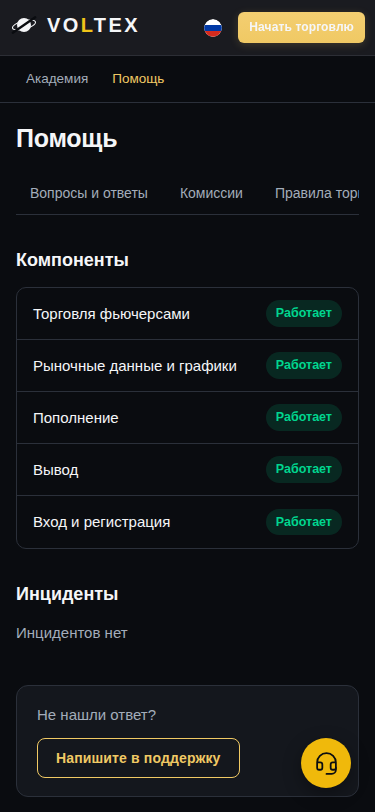
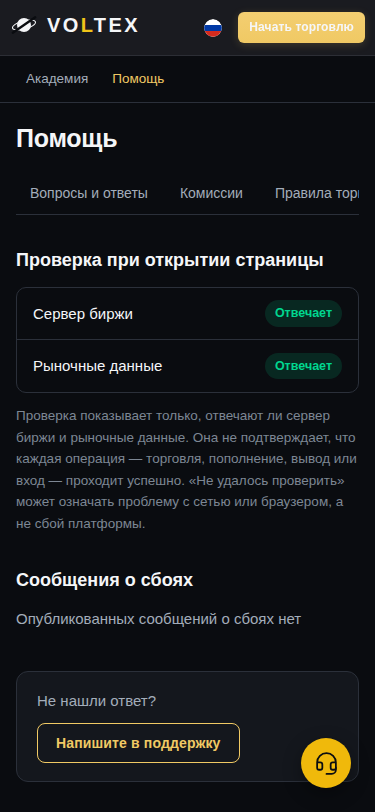
Help: registration and status say only what the site does
Review on PR #370. Registration returns a signed-in session at once
(src/api/routes/auth.ts leaves emailVerifiedAt null), so the FAQ no
longer sends people to an email link; a content test fails on that claim.

«Статус системы» now names what its two on-open checks prove: whether the
exchange server and market data answered (200 «Отвечает», another status
«Ответил с ошибкой», no answer «Не удалось проверить», which may be the
network), with a note that this does not confirm trading, deposits,
withdrawals or sign-in. No per-operation badges; an empty incident file
reads «Опубликованных сообщений о сбоях нет». Still blank while pending,
two checks, no timer.

Claude-Session: https://claude.ai/code/session_01QYDaBPmAQT7kqxtv32nEHZ

diff --git a/frontend/src/pages/knowledge/HelpPage.tsx b/frontend/src/pages/knowledge/HelpPage.tsx
@@ -7,7 +7,7 @@ import { localeOf, useLanguage } from '../../lib/i18n';
 import { MARKET_EDGE_BASE } from '../../lib/marketEdge';
 import { openSupportWidget } from '../../lib/supportWidget';
 import { faqGroups, pickLang } from '../../lib/content/academy';
-import { API_COMPONENTS, MARKET_COMPONENTS, apiHealthUrl, edgeHealthUrl, probe, type ProbeResult } from '../../lib/content/systemStatus';
+import { PROBES, apiHealthUrl, edgeHealthUrl, probe, type ProbeId, type ProbeResult } from '../../lib/content/systemStatus';
 import type { FeeRow, HelpContent } from '../../lib/content/types';
 import { usePageMeta } from '../../lib/content/usePageMeta';
 import { KnowledgeShell } from './KnowledgeShell';
@@ -193,36 +193,35 @@ function Rules({ content }: { content: HelpContent }) {
 
 function Status({ content }: { content: HelpContent }) {
   const { t } = useLanguage();
-  usePageMeta(`${t('help.tab.status')} — ${TITLE}`, 'Работают ли торговля, рыночные данные, пополнение, вывод и вход на VOLTEX.');
-  const [api, setApi] = useState<ProbeResult | null>(null);
-  const [market, setMarket] = useState<ProbeResult | null>(null);
+  usePageMeta(`${t('help.tab.status')} — ${TITLE}`, 'Отвечают ли сервер VOLTEX и рыночные данные; опубликованные сообщения о сбоях.');
+  const [results, setResults] = useState<Partial<Record<ProbeId, ProbeResult>>>({});
   useEffect(() => {
     // One check each, only now that the page is open; never repeated on a timer.
     const controller = new AbortController();
-    void probe(apiHealthUrl(API_BASE, window.location.origin), browserFetch, controller.signal).then(setApi, () => {});
-    void probe(edgeHealthUrl(MARKET_EDGE_BASE), browserFetch, controller.signal).then(setMarket, () => {});
+    const urls: Record<ProbeId, string> = { api: apiHealthUrl(API_BASE, window.location.origin), market: edgeHealthUrl(MARKET_EDGE_BASE) };
+    for (const id of PROBES) {
+      void probe(urls[id], browserFetch, controller.signal).then((result) => setResults((prev) => ({ ...prev, [id]: result })), () => {});
+    }
     return () => controller.abort();
   }, []);
-  const resultOf = (id: string) => (API_COMPONENTS.includes(id) ? api : MARKET_COMPONENTS.includes(id) ? market : null);
+  const label: Record<ProbeResult, string> = { ok: t('help.status.ok'), error: t('help.status.error'), unreachable: t('help.status.unreachable') };
+  const names = new Map(content.components.map((c) => [c.id, c.name]));
   return (
     <>
       <section className="vx-kb-block">
-        <h2 className="vx-kb-h2">{t('help.status.components')}</h2>
+        <h2 className="vx-kb-h2">{t('help.status.checks')}</h2>
         <ul className="vx-kb-status">
-          {content.components.map((c) => {
-            const result = resultOf(c.id);
+          {PROBES.map((id) => {
+            const result = results[id];
             return (
-              <li key={c.id} data-status-component={c.id}>
-                <span>{c.name}</span>
-                {result && (
-                  <span className={`vx-kb-pill is-${result}`} data-status={result}>
-                    {result === 'ok' ? t('help.status.ok') : t('help.status.problem')}
-                  </span>
-                )}
+              <li key={id} data-status-probe={id}>
+                <span>{t(`help.status.${id}`)}</span>
+                {result && <span className={`vx-kb-pill is-${result}`} data-status={result}>{label[result]}</span>}
               </li>
             );
           })}
         </ul>
+        <p className="vx-kb-text vx-kb-status-note">{t('help.status.note')}</p>
       </section>
       <section className="vx-kb-block">
         <h2 className="vx-kb-h2">{t('help.status.incidents')}</h2>
@@ -232,7 +231,7 @@ function Status({ content }: { content: HelpContent }) {
           <ul className="vx-kb-incidents">
             {content.incidents.map((incident, i) => (
               <li key={`${incident.date ?? ''}-${i}`}>
-                <p className="vx-kb-meta">{[incident.date, incident.status].filter(Boolean).join(' · ')}</p>
+                <p className="vx-kb-meta">{[incident.date, incident.status, ...(incident.components ?? []).map((id) => names.get(id) ?? id)].filter(Boolean).join(' · ')}</p>
                 {incident.title && <p className="vx-kb-card-title">{incident.title}</p>}
                 {incident.text && <p className="vx-kb-text">{incident.text}</p>}
               </li>

diff --git a/frontend/src/lib/__tests__/academyHelpPages.test.ts b/frontend/src/lib/__tests__/academyHelpPages.test.ts
@@ -182,23 +182,36 @@ test('fees page: zero fees, the owner note stays hidden', async () => {
   expect(text()).not.toContain('_note');
 });
 
-test('status: one check each on open, nothing shown while waiting, then the answers; no timer', async () => {
+test('status: one check each on open, nothing shown while waiting, then only what the checks prove; no timer', async () => {
   jest.useFakeTimers({ doNotFake: ['setImmediate'] });
   const pending: Record<string, (value: any) => void> = {};
   answer = (url) => new Promise((done) => { pending[url] = done; });
   await open('/help/status');
   expect(requests.sort()).toEqual(['https://api.voltextech.net/health', 'https://market.voltextech.net/health']);
+  expect(Array.from(host.querySelectorAll('[data-status-probe]')).map((el) => el.getAttribute('data-status-probe'))).toEqual(['api', 'market']);
   expect(host.querySelectorAll('[data-status]').length).toBe(0);
-  expect(text()).not.toMatch(/Провер|Ожида|Нет ответа/);
+  expect(text()).not.toMatch(/Ожида|Нет ответа|Проверяем/);
   await act(async () => { jest.advanceTimersByTime(60_000); await flush(); });
   expect(host.querySelectorAll('[data-status]').length).toBe(0);
   await act(async () => { pending['https://api.voltextech.net/health']({ status: 200 }); pending['https://market.voltextech.net/health']({ status: 502 }); await flush(); await flush(); });
-  const state = (id: string) => host.querySelector(`[data-status-component="${id}"] [data-status]`)?.textContent;
-  expect(['trading', 'deposits', 'withdrawals', 'auth'].map(state)).toEqual(['Работает', 'Работает', 'Работает', 'Работает']);
-  expect(state('market-data')).toBe('Проблемы');
-  expect(host.querySelector('[data-no-incidents]')!.textContent).toBe('Инцидентов нет');
+  const state = (id: string) => host.querySelector(`[data-status-probe="${id}"] [data-status]`)?.textContent;
+  expect([state('api'), state('market')]).toEqual(['Отвечает', 'Ответил с ошибкой']);
+  // One 200 from /health is not shown as working trading, deposits, withdrawals or sign-in.
+  expect(host.querySelectorAll('[data-status-component]').length).toBe(0);
+  expect(text()).not.toMatch(/Работает|Торговля фьючерсами|Вывод.*Отвечает/);
+  expect(text()).toContain('Она не подтверждает, что каждая операция');
+  expect(host.querySelector('[data-no-incidents]')!.textContent).toBe('Опубликованных сообщений о сбоях нет');
   await act(async () => { jest.advanceTimersByTime(60 * 60_000); await flush(); });
   expect(requests).toHaveLength(2);
+});
+
+test('status: a request the browser could not complete reads «Не удалось проверить», not an outage', async () => {
+  answer = (url) => (url.includes('api.') ? Promise.reject(new TypeError('Failed to fetch')) : Promise.resolve({ status: 200 }));
+  await open('/help/status');
+  await act(async () => { await flush(); await flush(); });
+  const state = (id: string) => host.querySelector(`[data-status-probe="${id}"] [data-status]`)?.textContent;
+  expect([state('api'), state('market')]).toEqual(['Не удалось проверить', 'Отвечает']);
+  expect(text()).not.toMatch(/Проблемы|сбой платформы подтвержд/);
 });
 
 test('English: labels translate, the Russian text stays with a short note', async () => {

diff --git a/frontend/src/lib/__tests__/academyHelpContent.test.ts b/frontend/src/lib/__tests__/academyHelpContent.test.ts
@@ -119,12 +119,28 @@ test('search, level filter, neighbours and FAQ groups', () => {
   expect(pickLang(compiled.academy, 'ru')).toEqual({ content: academy, fallback: false });
 });
 
-test('status: /health at the API host root and on the market Worker; a non-200 or an error is «problem»', async () => {
+test('status: /health at the API host root and on the market Worker; 200 answers, another status is an error, no answer is unknown', async () => {
   expect(apiHealthUrl('https://api.voltextech.net/api/v1', 'https://voltextech.net')).toBe('https://api.voltextech.net/health');
   expect(apiHealthUrl('/api/v1', 'https://voltextech.net')).toBe('https://voltextech.net/health');
   expect(edgeHealthUrl('https://market.voltextech.net/')).toBe('https://market.voltextech.net/health');
   const signal = new AbortController().signal;
   expect(await probe('u', (async () => ({ status: 200 })) as unknown as typeof fetch, signal)).toBe('ok');
-  expect(await probe('u', (async () => ({ status: 503 })) as unknown as typeof fetch, signal)).toBe('problem');
-  expect(await probe('u', (async () => { throw new TypeError('offline'); }) as unknown as typeof fetch, signal)).toBe('problem');
+  expect(await probe('u', (async () => ({ status: 503 })) as unknown as typeof fetch, signal)).toBe('error');
+  // A browser that got no answer (network, blocker, CORS) has proven nothing about the platform.
+  expect(await probe('u', (async () => { throw new TypeError('offline'); }) as unknown as typeof fetch, signal)).toBe('unreachable');
+});
+
+test('registration: no content promises an email-confirmation step the site does not have', () => {
+  // src/api/routes/auth.ts: registration returns a signed-in session at once;
+  // `emailVerifiedAt` stays null and nothing waits for a link.
+  const claim = /подтверд\S*\s+(?:свою\s+)?почт|ссылк\S*\s+из\s+письм|письм\S*\s+с\s+подтвержд(?!ением ждать не нужно)/i;
+  const offenders = Object.entries(files).filter(([, text]) => claim.test(text)).map(([path]) => path);
+  expect(offenders).toEqual([]);
+  const register = help.faq.find((item) => item.q === 'Как зарегистрироваться?')!;
+  expect(register.a).toContain('Аккаунт откроется сразу');
+});
+
+test('incident list: an empty file means no published reports, and editor notes stay off the page', () => {
+  expect(help.incidents).toEqual([]);
+  expect(JSON.stringify(help)).not.toContain('Сообщения о сбоях ведутся вручную');
 });

diff --git a/frontend/src/lib/content/systemStatus.ts b/frontend/src/lib/content/systemStatus.ts
@@ -1,17 +1,22 @@
 /**
  * «Статус системы»: one light check per service, made only when the page is
- * opened — never on a timer. The API answer covers trading, deposits,
- * withdrawals and sign-in; the public market Worker covers market data.
+ * opened — never on a timer. Each check proves exactly one thing: whether
+ * that endpoint answered. The API `/health` is a liveness answer; it does
+ * not prove that trading, deposits, withdrawals or sign-in succeed, so the
+ * page reports the API and the market-data Worker, not those operations.
  *
  * While an answer is on its way nothing is shown (owner, 2026-10-01): a
  * sleeping free-plan server can take a while to wake, and a «waiting» line
  * would only alarm. No timeout either — the answer is shown when it comes.
  */
 
-export type ProbeResult = 'ok' | 'problem';
+/** `ok`: answered 200. `error`: answered, but not 200. `unreachable`: the
+ * browser got no answer — that can be the visitor's network, a blocker or
+ * CORS, so it is never presented as a confirmed outage. */
+export type ProbeResult = 'ok' | 'error' | 'unreachable';
 
-export const API_COMPONENTS = ['trading', 'deposits', 'withdrawals', 'auth'];
-export const MARKET_COMPONENTS = ['market-data'];
+export const PROBES = ['api', 'market'] as const;
+export type ProbeId = (typeof PROBES)[number];
 
 /** `/health` at the root of the API host: https://api.voltextech.net/health. */
 export function apiHealthUrl(apiBase: string, origin: string): string {
@@ -25,9 +30,9 @@ export function edgeHealthUrl(edgeBase: string): string {
 export async function probe(url: string, fetchImpl: typeof fetch, signal: AbortSignal): Promise<ProbeResult> {
   try {
     const response = await fetchImpl(url, { cache: 'no-store', credentials: 'omit', signal });
-    return response.status === 200 ? 'ok' : 'problem';
+    return response.status === 200 ? 'ok' : 'error';
   } catch (error) {
     if (signal.aborted) throw error;
-    return 'problem';
+    return 'unreachable';
   }
 }

diff --git a/frontend/src/lib/i18n/locales/hi.ts b/frontend/src/lib/i18n/locales/hi.ts
@@ -1773,9 +1773,13 @@ export const HI: Record<Key, string> = {
   'help.fees.min': 'न्यूनतम',
   'help.fees.confirmations': 'पुष्टियाँ',
   'help.rules.toc': 'विषय-सूची',
-  'help.status.ok': 'चालू',
-  'help.status.problem': 'समस्याएँ',
-  'help.status.components': 'घटक',
-  'help.status.incidents': 'घटनाएँ',
-  'help.status.noIncidents': 'कोई घटना नहीं',
+  'help.status.checks': 'पेज खुलने पर जाँच',
+  'help.status.api': 'एक्सचेंज सर्वर',
+  'help.status.market': 'बाज़ार डेटा',
+  'help.status.ok': 'जवाब दे रहा है',
+  'help.status.error': 'त्रुटि के साथ जवाब',
+  'help.status.unreachable': 'जाँच नहीं हो सकी',
+  'help.status.note': 'यह केवल दिखाता है कि एक्सचेंज सर्वर और बाज़ार डेटा जवाब दे रहे हैं या नहीं। यह पुष्टि नहीं करता कि हर ऑपरेशन — ट्रेडिंग, जमा, निकासी या लॉगिन — सफल होता है। «जाँच नहीं हो सकी» का अर्थ नेटवर्क या ब्राउज़र की समस्या हो सकता है, प्लेटफ़ॉर्म की खराबी नहीं।',
+  'help.status.incidents': 'घटना सूचनाएँ',
+  'help.status.noIncidents': 'कोई प्रकाशित घटना सूचना नहीं',
 };

diff --git a/frontend/src/lib/i18n/locales/ru.ts b/frontend/src/lib/i18n/locales/ru.ts
@@ -1832,9 +1832,13 @@ export const RU = {
   'help.fees.min': 'Минимум',
   'help.fees.confirmations': 'Подтверждения',
   'help.rules.toc': 'Содержание',
-  'help.status.ok': 'Работает',
-  'help.status.problem': 'Проблемы',
-  'help.status.components': 'Компоненты',
-  'help.status.incidents': 'Инциденты',
-  'help.status.noIncidents': 'Инцидентов нет',
+  'help.status.checks': 'Проверка при открытии страницы',
+  'help.status.api': 'Сервер биржи',
+  'help.status.market': 'Рыночные данные',
+  'help.status.ok': 'Отвечает',
+  'help.status.error': 'Ответил с ошибкой',
+  'help.status.unreachable': 'Не удалось проверить',
+  'help.status.note': 'Проверка показывает только, отвечают ли сервер биржи и рыночные данные. Она не подтверждает, что каждая операция — торговля, пополнение, вывод или вход — проходит успешно. «Не удалось проверить» может означать проблему с сетью или браузером, а не сбой платформы.',
+  'help.status.incidents': 'Сообщения о сбоях',
+  'help.status.noIncidents': 'Опубликованных сообщений о сбоях нет',
 } as const;

diff --git a/frontend/src/lib/i18n/locales/ja.ts b/frontend/src/lib/i18n/locales/ja.ts
@@ -1773,9 +1773,13 @@ export const JA: Record<Key, string> = {
   'help.fees.min': '最低額',
   'help.fees.confirmations': '承認数',
   'help.rules.toc': '目次',
-  'help.status.ok': '正常',
-  'help.status.problem': '障害',
-  'help.status.components': 'コンポーネント',
-  'help.status.incidents': 'インシデント',
-  'help.status.noIncidents': 'インシデントはありません',
+  'help.status.checks': 'ページを開いた時点の確認',
+  'help.status.api': '取引所サーバー',
+  'help.status.market': '市場データ',
+  'help.status.ok': '応答あり',
+  'help.status.error': 'エラー応答',
+  'help.status.unreachable': '確認できませんでした',
+  'help.status.note': '取引所サーバーと市場データが応答するかだけを示します。取引・入金・出金・ログインの各操作が成功することは確認しません。「確認できませんでした」はネットワークやブラウザの問題の可能性があり、プラットフォームの障害とは限りません。',
+  'help.status.incidents': '障害のお知らせ',
+  'help.status.noIncidents': '公開中の障害のお知らせはありません',
 };

diff --git a/frontend/src/lib/content/compile.ts b/frontend/src/lib/content/compile.ts
@@ -218,7 +218,7 @@ export function seoPages(content: CompiledContent): SeoPage[] {
     ['help/faq', 'Вопросы и ответы', 'Ответы на частые вопросы об аккаунте, пополнении, торговле и выводе на VOLTEX.'],
     ['help/fees', 'Комиссии', 'Торговые комиссии, пополнение и вывод на VOLTEX.'],
     ['help/rules', 'Правила торговли', 'Как работают ордера, маржа, ликвидация и ставка финансирования на VOLTEX.'],
-    ['help/status', 'Статус системы', 'Работают ли торговля, рыночные данные, пополнение, вывод и вход на VOLTEX.'],
+    ['help/status', 'Статус системы', 'Отвечают ли сервер VOLTEX и рыночные данные; опубликованные сообщения о сбоях.'],
   ];
   for (const [path, title, description] of help) pages.push({ path, title: `${title} — ${HELP_TITLE}`, description });
   return pages;

diff --git a/frontend/src/lib/i18n/locales/es.ts b/frontend/src/lib/i18n/locales/es.ts
@@ -1773,9 +1773,13 @@ export const ES: Record<Key, string> = {
   'help.fees.min': 'Mínimo',
   'help.fees.confirmations': 'Confirmaciones',
   'help.rules.toc': 'Contenido',
-  'help.status.ok': 'Operativo',
-  'help.status.problem': 'Problemas',
-  'help.status.components': 'Componentes',
-  'help.status.incidents': 'Incidentes',
-  'help.status.noIncidents': 'Sin incidentes',
+  'help.status.checks': 'Comprobación al abrir esta página',
+  'help.status.api': 'Servidor del exchange',
+  'help.status.market': 'Datos de mercado',
+  'help.status.ok': 'Responde',
+  'help.status.error': 'Respondió con un error',
+  'help.status.unreachable': 'No se pudo comprobar',
+  'help.status.note': 'Solo muestra si el servidor del exchange y los datos de mercado responden. No confirma que cada operación (trading, depósitos, retiros o inicio de sesión) funcione. «No se pudo comprobar» puede deberse a la red o al navegador, no a una caída de la plataforma.',
+  'help.status.incidents': 'Avisos de incidencias',
+  'help.status.noIncidents': 'No hay avisos de incidencias publicados',
 };

diff --git a/frontend/src/lib/i18n/locales/ko.ts b/frontend/src/lib/i18n/locales/ko.ts
@@ -1773,9 +1773,13 @@ export const KO: Record<Key, string> = {
   'help.fees.min': '최소',
   'help.fees.confirmations': '컨펌',
   'help.rules.toc': '목차',
-  'help.status.ok': '정상',
-  'help.status.problem': '문제 발생',
-  'help.status.components': '구성 요소',
-  'help.status.incidents': '장애 기록',
-  'help.status.noIncidents': '장애 없음',
+  'help.status.checks': '페이지를 열 때 확인한 결과',
+  'help.status.api': '거래소 서버',
+  'help.status.market': '시장 데이터',
+  'help.status.ok': '응답함',
+  'help.status.error': '오류 응답',
+  'help.status.unreachable': '확인할 수 없음',
+  'help.status.note': '거래소 서버와 시장 데이터가 응답하는지만 보여 줍니다. 거래, 입금, 출금, 로그인 같은 각 작업이 성공하는지는 확인하지 않습니다. «확인할 수 없음»은 플랫폼 장애가 아니라 네트워크나 브라우저 문제일 수 있습니다.',
+  'help.status.incidents': '장애 공지',
+  'help.status.noIncidents': '게시된 장애 공지가 없습니다',
 };

diff --git a/frontend/src/lib/i18n/locales/en.ts b/frontend/src/lib/i18n/locales/en.ts
@@ -1802,9 +1802,13 @@ export const EN: Record<Key, string> = {
   'help.fees.min': 'Minimum',
   'help.fees.confirmations': 'Confirmations',
   'help.rules.toc': 'Contents',
-  'help.status.ok': 'Operational',
-  'help.status.problem': 'Issues',
-  'help.status.components': 'Components',
-  'help.status.incidents': 'Incidents',
-  'help.status.noIncidents': 'No incidents',
+  'help.status.checks': 'Checked when this page opened',
+  'help.status.api': 'Exchange server',
+  'help.status.market': 'Market data',
+  'help.status.ok': 'Responding',
+  'help.status.error': 'Answered with an error',
+  'help.status.unreachable': 'Could not check',
+  'help.status.note': 'This only shows whether the exchange server and market data answer. It does not confirm that each operation — trading, deposits, withdrawals or sign-in — succeeds. «Could not check» may mean a network or browser problem, not a platform outage.',
+  'help.status.incidents': 'Incident reports',
+  'help.status.noIncidents': 'No incident reports published',
 };

diff --git a/frontend/src/lib/i18n/locales/zh.ts b/frontend/src/lib/i18n/locales/zh.ts
@@ -1796,9 +1796,13 @@ export const ZH: Record<Key, string> = {
   'help.fees.min': '最低',
   'help.fees.confirmations': '确认数',
   'help.rules.toc': '目录',
-  'help.status.ok': '正常',
-  'help.status.problem': '异常',
-  'help.status.components': '组件',
-  'help.status.incidents': '事件',
-  'help.status.noIncidents': '无事件',
+  'help.status.checks': '打开本页时的检查',
+  'help.status.api': '交易所服务器',
+  'help.status.market': '市场数据',
+  'help.status.ok': '有响应',
+  'help.status.error': '返回错误',
+  'help.status.unreachable': '无法检查',
+  'help.status.note': '此检查仅显示交易所服务器和市场数据是否有响应，并不确认每项操作（交易、充值、提现或登录）都能成功。“无法检查”可能是网络或浏览器问题，而非平台故障。',
+  'help.status.incidents': '故障通告',
+  'help.status.noIncidents': '暂无已发布的故障通告',
 };
